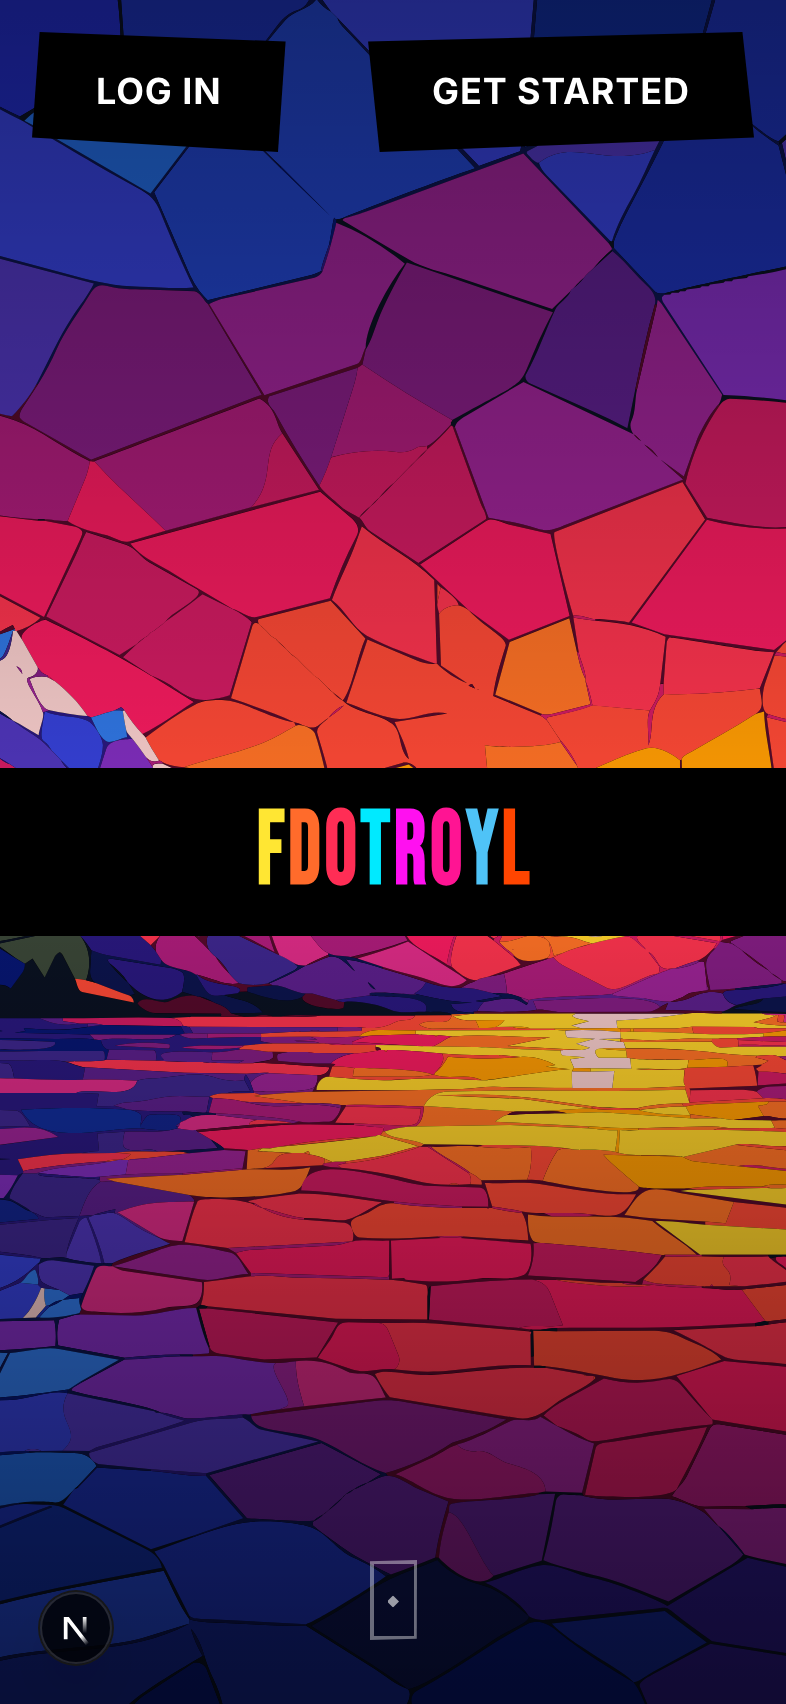
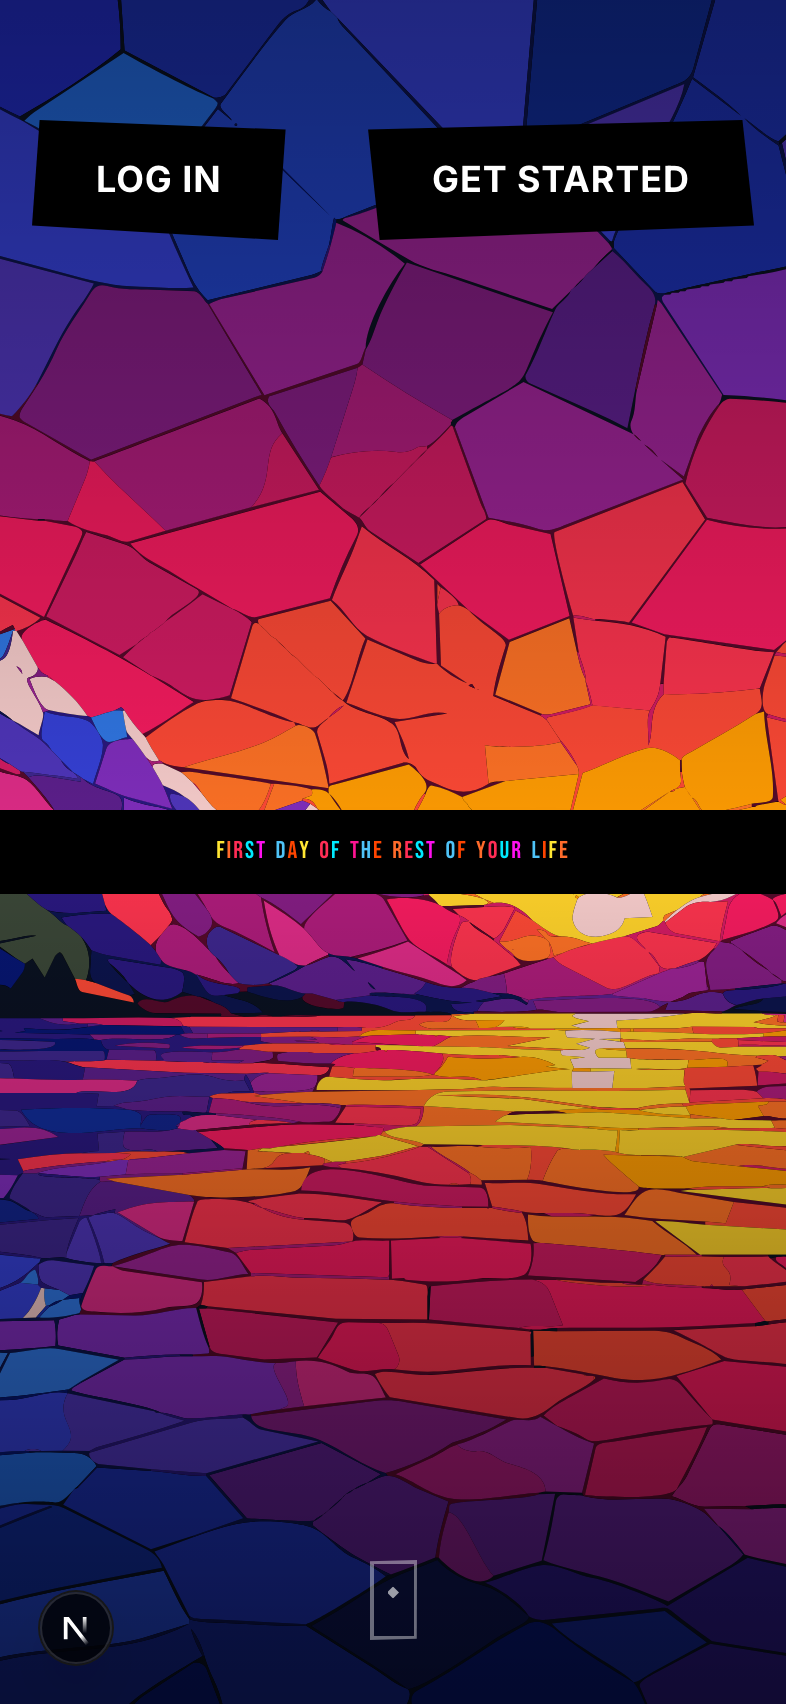
feat: fresh screenshots, resume edits, bookshelf layout, tighter project gaps
- Recaptured 3 distinct MIDDLEMAN views (dashboard, orders, stock) via Try Demo flow
- Fresh FirstDay hero with buttons below Dynamic Island, full tagline spelled out
- Loading screen at 50% progress, updated carousel to 7 verified screenshots
- Resume: removed specific bullet points per request, added Figma MCP workflow
- Bookshelf: description panel between shelf rows on mobile (books flank description)
- Project cards: tighter gap between phone mockup and description

Changed region(s): [[0.0, 0.4354, 1.0, 0.5599], [0.458, 0.0, 0.9771, 0.1555], [0.0305, 0.0, 0.3664, 0.1555]]

diff --git a/src/components/Resume.tsx b/src/components/Resume.tsx
@@ -90,10 +90,10 @@ export default function Resume() {
                 Most of my work lives in that sweet spot between design and development. I interview the owner, map out the user flow, design the system in Figma, and then build it — responsive, accessible, and fast. I&apos;ve shipped everything from restaurant sites with online ordering to full e-commerce storefronts to mobile-first tools for people who work on their feet all day.
               </p>
               <p className="text-base leading-relaxed mb-4" style={{ color: '#ffffff' }}>
-                Lately I&apos;ve been deep in a mobile merchandising app — user research, custom design system, live prototype — replacing pen-and-paper workflows with real-time inventory data. I also designed and launched an AI-powered goal-setting web app, and I&apos;ve been rebuilding local business sites with proper information architecture, booking flows, and e-commerce that actually converts. Every project ships with a custom design system, not borrowed components.
+                I care about the details — the scroll feel, the loading states, the way a card tilts when you hover it. That stuff adds up. It&apos;s the difference between &ldquo;someone made us a website&rdquo; and &ldquo;this actually feels like us.&rdquo;
               </p>
               <p className="text-base leading-relaxed" style={{ color: '#ffffff' }}>
-                I care about the details — the scroll feel, the loading states, the way a card tilts when you hover it. That stuff adds up. It&apos;s the difference between &ldquo;someone made us a website&rdquo; and &ldquo;this actually feels like us.&rdquo;
+                My workflow bridges design and engineering — I use Figma with the MCP integration in Claude Code to go from design to production in a single pass. Design tokens, component specs, and responsive layouts move directly from Figma into code without handoff friction.
               </p>
             </div>
 
@@ -105,8 +105,7 @@ export default function Resume() {
               </div>
               <div className="text-sm mb-3" style={{ color: '#a1a1a6' }}>August 2023 &ndash; May 2024 &middot; Durham, NH</div>
               <ul className="list-disc pl-5 space-y-1.5 text-base" style={{ color: '#ffffff' }}>
-                <li>Supported 100+ students with Adobe Creative Suite workflows, mentoring on visual design principles including hierarchy, typography, and color theory</li>
-                <li>Created standardized design documentation and workflow guides that improved lab efficiency and student self-service</li>
+                <li>Supported 50+ students with Adobe Creative Suite workflows, mentoring on visual design principles including hierarchy, typography, and color theory</li>
                 <li>Troubleshot technical issues across file preparation, print production, and digital asset management workflows</li>
               </ul>
             </div>
@@ -120,8 +119,6 @@ export default function Resume() {
               <div className="text-sm mb-3" style={{ color: '#a1a1a6' }}>January 2024 &ndash; May 2025 &middot; Rochester, NH</div>
               <ul className="list-disc pl-5 space-y-1.5 text-base" style={{ color: '#ffffff' }}>
                 <li>Executed strategic product placement across 15+ retail accounts, developing understanding of operational workflows and user pain points in high-volume environments</li>
-                <li>Conducted contextual inquiry by observing merchandiser workflows in retail settings, identifying friction points that directly informed the design of a POS-Driven Merchandiser App</li>
-                <li>Collaborated with store managers on inventory optimization, building empathy for users working within stressful, time-sensitive operational constraints</li>
               </ul>
             </div>
           </section>

diff --git a/src/components/About.tsx b/src/components/About.tsx
@@ -555,20 +555,29 @@ export default function About({ setCurrentPage }: AboutProps) {
             </div>
           </div>
 
-          {/* Mobile/Tablet: 3 shelves, description below */}
+          {/* Mobile/Tablet: shelves flanking description in center */}
           <div className="lg:hidden max-w-[90rem] mx-auto">
-            {MOBILE_ROWS.map((rowBooks, rowIndex) => (
-              <ShelfRow
-                key={rowIndex}
-                books={rowBooks}
-                globalOffset={rowIndex * 10}
-                activeBookIndex={activeBookIndex}
-                setActiveBookIndex={setActiveBookIndex}
-              />
-            ))}
-            <div className="mt-4">
+            <ShelfRow
+              books={MOBILE_ROWS[0]}
+              globalOffset={0}
+              activeBookIndex={activeBookIndex}
+              setActiveBookIndex={setActiveBookIndex}
+            />
+            <div className="my-4">
               <BookDescriptionPanel book={activeBook} />
             </div>
+            <ShelfRow
+              books={MOBILE_ROWS[1]}
+              globalOffset={10}
+              activeBookIndex={activeBookIndex}
+              setActiveBookIndex={setActiveBookIndex}
+            />
+            <ShelfRow
+              books={MOBILE_ROWS[2]}
+              globalOffset={20}
+              activeBookIndex={activeBookIndex}
+              setActiveBookIndex={setActiveBookIndex}
+            />
           </div>
         </AnimateIn>
       </div>

diff --git a/src/data/carousel.ts b/src/data/carousel.ts
@@ -7,10 +7,8 @@ export const CAROUSEL_ITEMS: readonly CarouselItem[] = [
   { src: '/images/carousel/mm-dashboard.png', alt: 'Middleman dashboard overview' },
   { src: '/images/firstday/hero.png', alt: 'FirstDay landing page' },
   { src: '/images/carousel/mm-stock.png', alt: 'Middleman stock management' },
-  { src: '/images/firstday/goal-creation.png', alt: 'FirstDay goal creation' },
-  { src: '/images/carousel/mm-orders.png', alt: 'Middleman orders tab' },
   { src: '/images/firstday/calendar-view.png', alt: 'FirstDay 30-day calendar' },
+  { src: '/images/carousel/mm-orders.png', alt: 'Middleman orders tab' },
   { src: '/images/firstday/loading-screen.png', alt: 'FirstDay loading screen' },
-  { src: '/images/firstday/day-view.png', alt: 'FirstDay daily activities' },
   { src: '/images/firstday/congrats-view.png', alt: 'FirstDay achievements' },
 ];

diff --git a/src/components/Home.tsx b/src/components/Home.tsx
@@ -222,7 +222,7 @@ export default function Home({ setCurrentPage }: HomeProps) {
           {/* All projects — unified split layout (phone left, text right) */}
           {PROJECTS.map((project, i) => (
             <AnimateIn key={project.id} direction="up" className="mb-16 md:mb-24">
-              <div className={`flex flex-col md:flex-row items-center gap-8 md:gap-16 ${i % 2 === 1 ? 'md:flex-row-reverse' : ''}`}>
+              <div className={`flex flex-col md:flex-row items-center gap-4 md:gap-8 ${i % 2 === 1 ? 'md:flex-row-reverse' : ''}`}>
                 <div className="w-full md:w-1/2">
                   <PhoneMockup
                     screenshot={project.screenshot}
